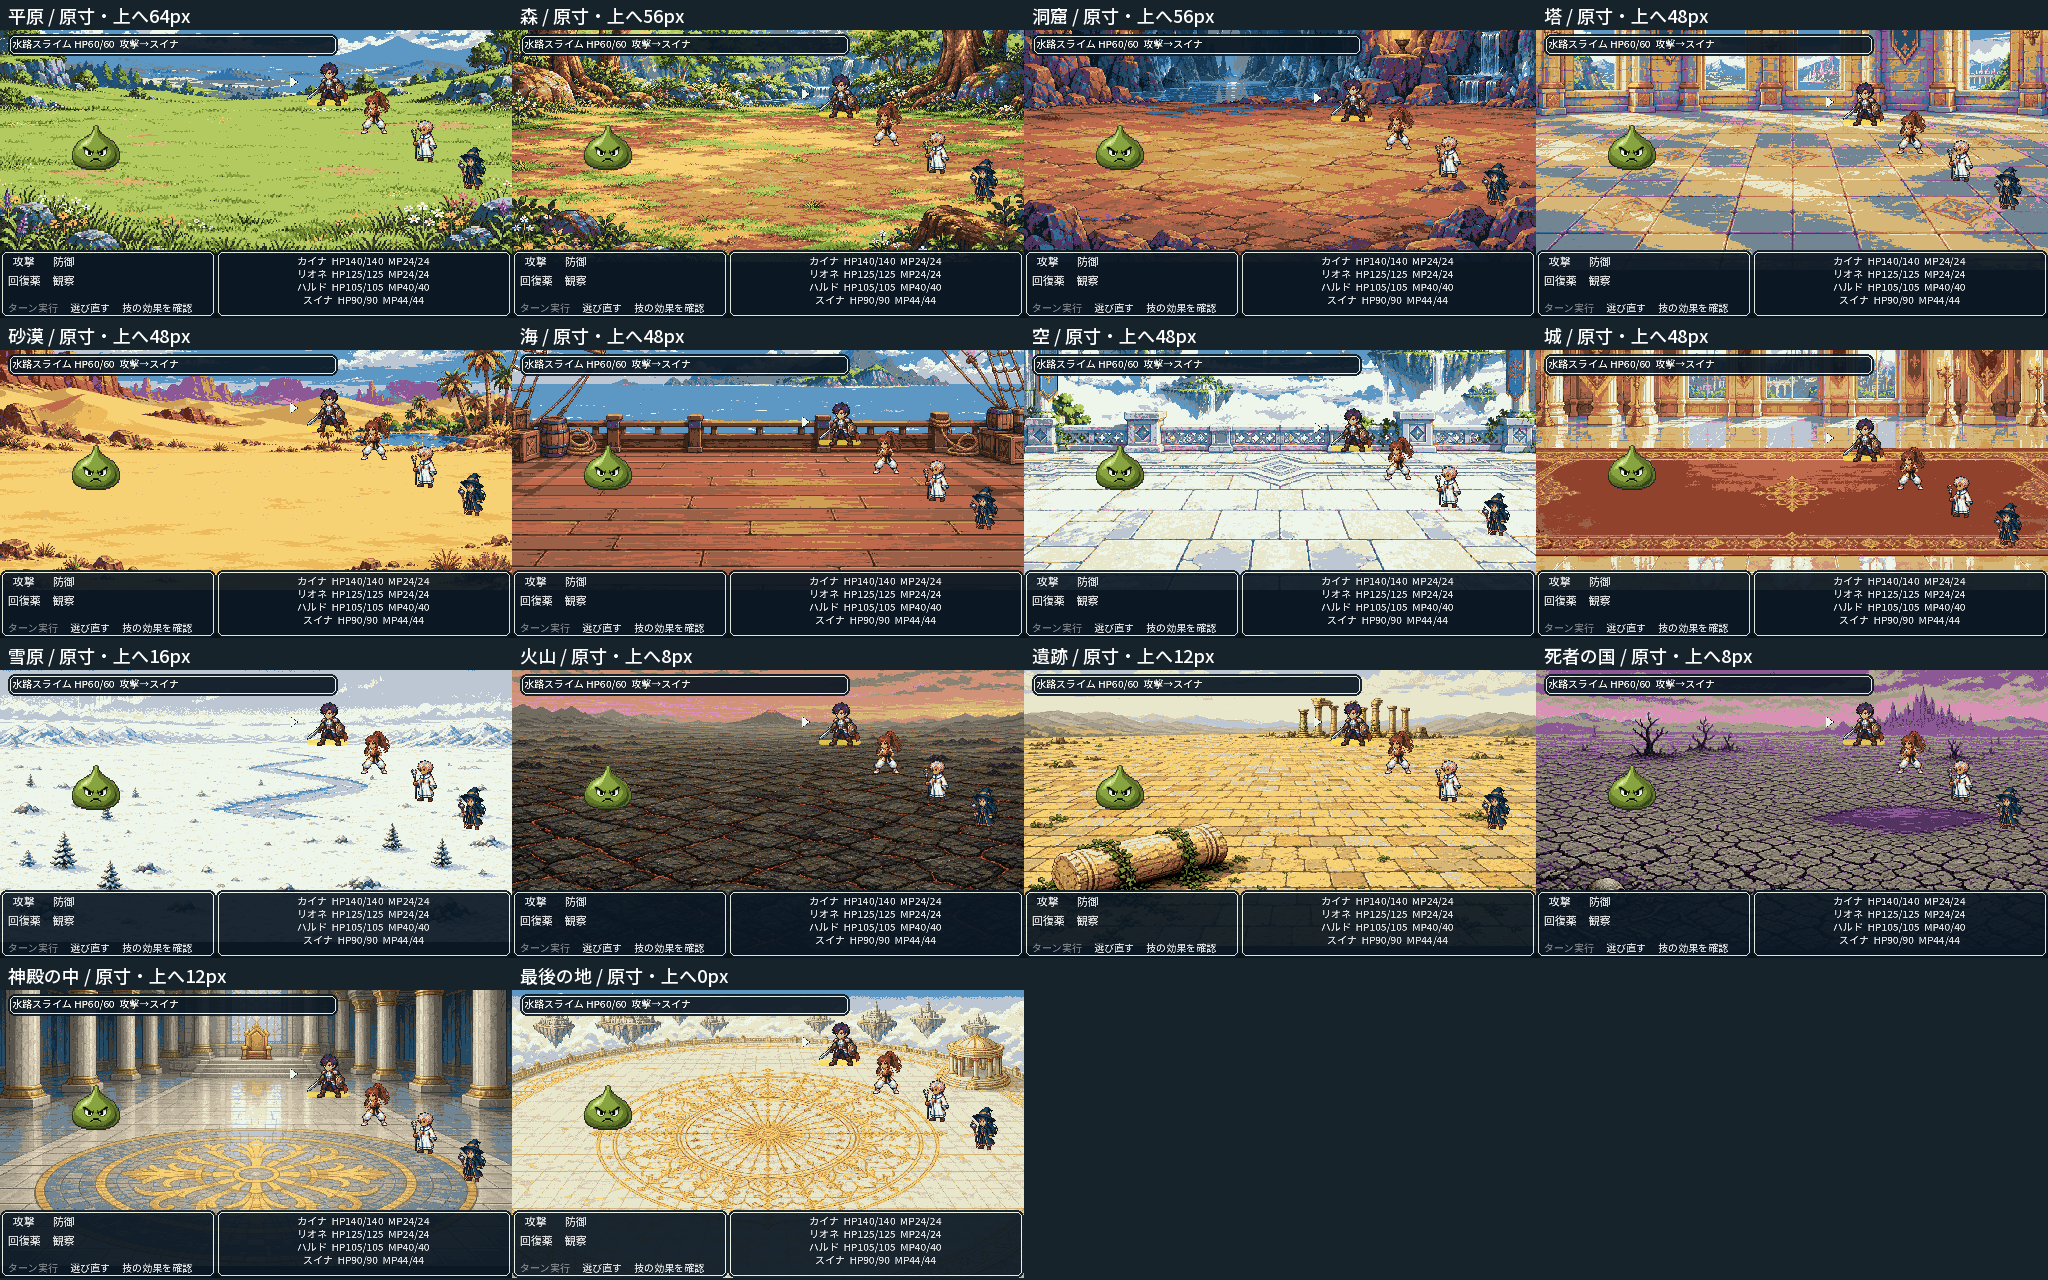
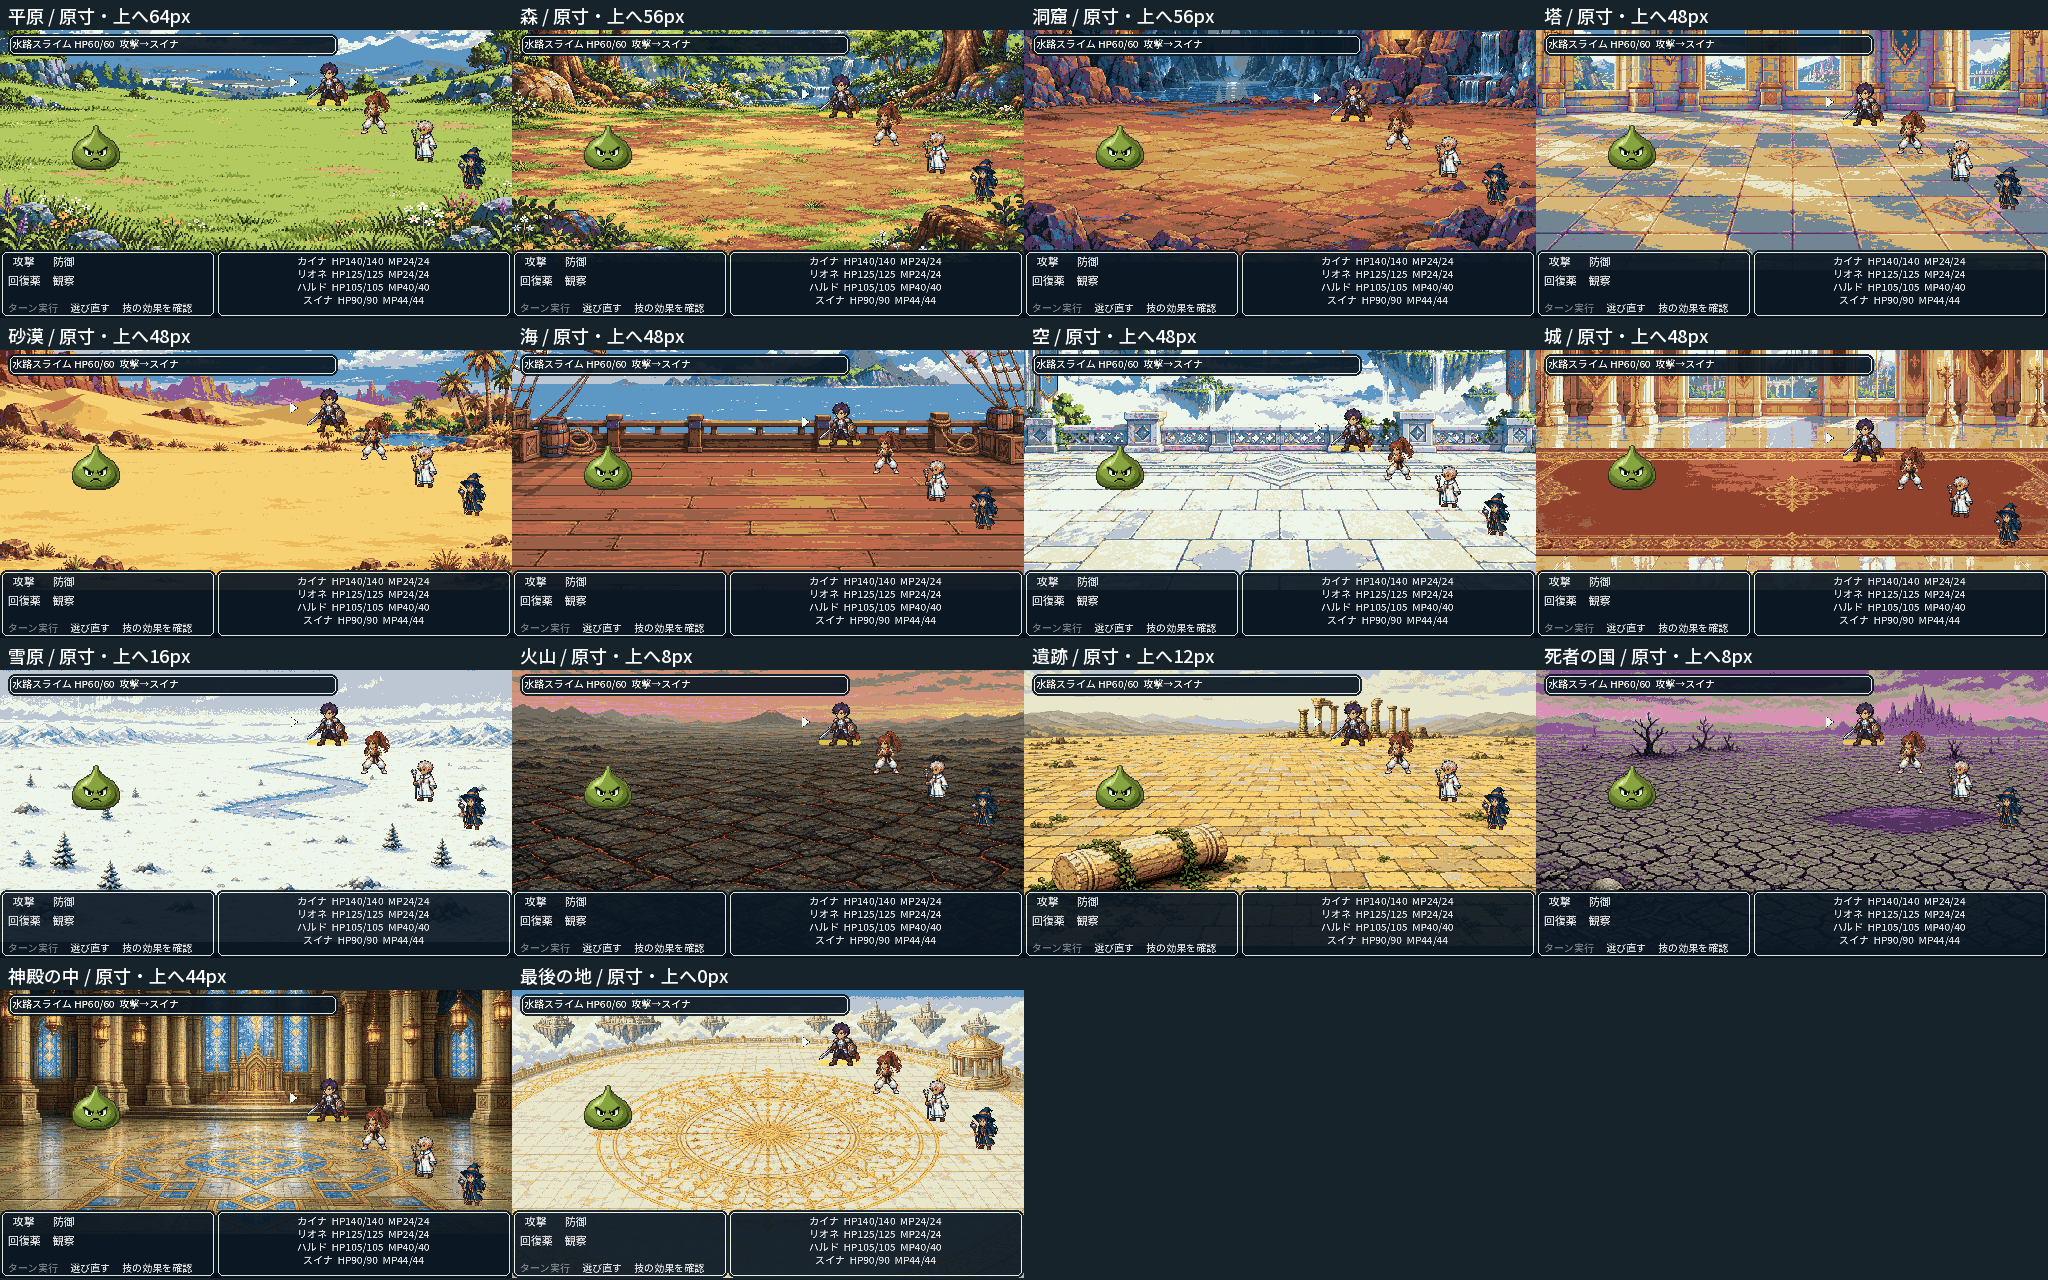
神殿を承認済みのドット絵原画へ差し替え、14背景一覧を更新する

Changed region(s): [[0.0, 0.75, 0.25, 0.9688]]

diff --git a/tools/import_review_backgrounds.py b/tools/import_review_backgrounds.py
@@ -11,7 +11,7 @@ BACKGROUNDS = {
     'gFbVF.jpg': ('volcano', '火山', 20,240,1.00,1.10,1.05),
     'zBjGj.jpg': ('ruins', '遺跡', 65,245,1.15,1.25,1.08),
     'lYiti.jpg': ('underworld', '死者の国', 100,255,1.30,0.90,1.07),
-    'mUou6.jpg': ('temple', '神殿の中', 12,245,1.12,1.20,1.10),
+    'IMG_1040.PNG': ('temple', '神殿の中', 0,255,1.00,1.00,1.00),
     'edM34.jpg': ('final_land', '最後の地', 145,255,1.05,1.22,1.03),
 }
 
@@ -26,6 +26,8 @@ def main():
     records = []
     for filename, (identifier, title, black, white, gamma, saturation, contrast) in BACKGROUNDS.items():
         original = f'assets/_incoming/owner-2026-09-26/background-replacement-2026-09-27/{filename}'
+        if identifier == 'temple':
+            original = 'assets/_incoming/owner-2026-09-26/reference-pack-2/IMG_1040.PNG'
         source = ROOT / original
         before = hashlib.sha256(source.read_bytes()).hexdigest()
         destination = f'assets/backgrounds/{identifier}.png'
@@ -43,6 +45,8 @@ def main():
                  'source': 'owner', 'author': '依頼者', 'license': 'LicenseRef-Owner-Provided',
                  'provided_at': '2026-09-27', 'original_file': original,
                  'modified': f'新原画全体を512×288へ最近傍変換。レベル黒{black}/白{white}、ガンマ{gamma}、彩度{saturation}、コントラスト{contrast}で白い霞を調整し、natural.gplへ減色。原本・既存8背景は不変。後続地方への接続は未実施。'}
+        if identifier == 'temple':
+            entry['modified'] = '2026年9月27日、依頼者が神殿に限りIMG_1040.PNGの再使用を承認。原画全体を512×288へ最近傍変換しnatural.gplへ減色。色調補正は追加せず、原本は不変。絵画調のmUou6.jpgから差し替え。'
         index = next((i for i, e in enumerate(registry['assets']) if e['path'] == destination), None)
         if index is None: registry['assets'].append(entry)
         else: registry['assets'][index] = entry

diff --git a/docs/battle-font-review.md b/docs/battle-font-review.md
@@ -1,12 +1,12 @@
 # 48pxの味方・背景の上移動・同梱字体の比較
 
-2026年9月27日の依頼への対応。Noto Sans JPは依頼者が正式採用した。追加6背景は新しい原画へ差し替えた。残り8職の制作は14背景一覧の採用後に行う。
+2026年9月27日の依頼への対応。Noto Sans JPは依頼者が正式採用した。14背景一覧と字体は依頼者が採用した。追加指示により神殿だけドット絵原画IMG_1040.PNGへ差し替え、神殿を更新した一覧の確認後に残り8職へ進む。
 
 ## 今回の表示
 
 味方の衣装画像を48×48pxの原寸に戻した。4人を完全な縦1列で置くと地面と窓の間に収まらないため、許可された斜め配置を使う。上から隊列順に、次の人を右へ48px・下へ28pxずつずらす。48pxの描画矩形同士の非重複も維持する。顔の領域は次の人物に隠れない。3人でも同じ間隔にし、列の中央へ寄せる。
 
-背景画像は描画時に拡大・縮小せず、上へ0〜64px移動する。新しい6背景は地面が広いため0〜16pxに抑えた。床面と重要な景色が異なるため、移動量と人物の先頭位置を背景ごとに設定した。下端の文字窓は80pxから68px、上の敵情報窓は1体時30pxから22pxへ低くした。コマンドの文字は12pxから11px、敵情報は11pxから10px。HP／MPは10pxを保ち、字体の上下の余白を各2px詰めた。字形自体は縦に圧縮していない。
+背景画像は描画時に拡大・縮小せず、上へ0〜64px移動する。新原画を使う5背景は0〜16px、再採用した神殿原画は44pxに設定した。床面と重要な景色が異なるため、移動量と人物の先頭位置を背景ごとに設定した。下端の文字窓は80pxから68px、上の敵情報窓は1体時30pxから22pxへ低くした。コマンドの文字は12pxから11px、敵情報は11pxから10px。HP／MPは10pxを保ち、字体の上下の余白を各2px詰めた。字形自体は縦に圧縮していない。
 
 | 背景 | 上への移動 | 先頭人物の上端 |
 | --- | ---: | ---: |
@@ -22,23 +22,23 @@
 | 火山 | 8px | 28px |
 | 遺跡 | 12px | 28px |
 | 死者の国 | 8px | 28px |
-| 神殿の中 | 12px | 60px |
+| 神殿の中 | 44px | 84px |
 | 最後の地 | 0px | 28px |
 
-既存8背景の画像ファイルは変更していない。追加6背景は、今回の新原画6枚だけを使用する。以前のIMG_1036〜1041は変換元にもゲーム描画にも使用しない。新原画を `assets/_incoming/owner-2026-09-26/background-replacement-2026-09-27/` に未加工で保存し、SHA-256を照合した。
+既存8背景の画像ファイルは変更していない。追加6背景のうち5背景は新原画を使用する。神殿に限り、依頼者は今回IMG_1040.PNGの再使用を承認した。IMG_1036〜1039・1041は引き続き使用しない。新原画を `assets/_incoming/owner-2026-09-26/background-replacement-2026-09-27/` に未加工で保存し、SHA-256を照合した。
 
 | 背景 | 新しい原画 |
 | --- | --- |
-| 神殿の中 | mUou6.jpg |
+| 神殿の中 | reference-pack-2/IMG_1040.PNG（今回、神殿に限り再使用を承認） |
 | 最後の地 | edM34.jpg |
 | 雪原 | Z0Wjp.jpg |
 | 火山 | gFbVF.jpg |
 | 遺跡 | zBjGj.jpg |
 | 死者の国 | lYiti.jpg |
 
-全体を512×288へ最近傍変換する前に、白っぽい霞をレベル・ガンマ・彩度・コントラストで補正し、既存のnatural.gplの64色へ減色した。処理の数値・元寸法・原本と出力のSHA-256は `assets/source_records/review-backgrounds.json` に記録する。原画は1168×784のまま不変。戦闘中には拡大・縮小を行わない。後続地方のイベント・進行への接続は行っていない。
+新原画5枚は、全体を512×288へ最近傍変換する前に、白っぽい霞をレベル・ガンマ・彩度・コントラストで補正し、既存のnatural.gplの64色へ減色した。神殿のIMG_1040.PNGは追加の色調補正をせず、全体を512×288へ最近傍変換して共通パレットへ減色した。処理の数値・元寸法・原本と出力のSHA-256は `assets/source_records/review-backgrounds.json` に記録する。原画は1168×784のまま不変。戦闘中には拡大・縮小を行わない。後続地方のイベント・進行への接続は行っていない。
 
-神殿の中は、減色後も床の反射と柱の連続的な陰影が他の背景より絵画的で、絵柄は完全にはそろっていないと判断した。色は合わせたが、ドット絵への描き直しは行っていない。神殿の採否は依頼者の確認に残す。
[1 lines of base64/hex data omitted]
 
 ## 字体の比較と出所
 

diff --git a/assets/_incoming/owner-2026-09-26/background-replacement-2026-09-27/README.md b/assets/_incoming/owner-2026-09-26/background-replacement-2026-09-27/README.md
@@ -1,3 +1,5 @@
 # 新しい6背景の原本
 
 2026年9月27日受領。依頼者がGrokで生成した完全オリジナル画像で、公開とゲームでの使用を承認した。ファイルは提供されたJPEGを1バイトも変えずに保管した。対応とSHA-256は originals.json に記録する。神殿は絵画調であり、他のドット背景との相性を確認する。以前のIMG_1036〜1041は履歴として保管するが、この6背景の変換には使用しない。
+
+2026年9月27日追加承認：神殿の絵柄をそろえるため、神殿に限り `reference-pack-2/IMG_1040.PNG` を再使用する。`mUou6.jpg` は原本の保管のみとし、現在の神殿背景には使用しない。ほかの5背景は本フォルダの原画を引き続き使用する。
